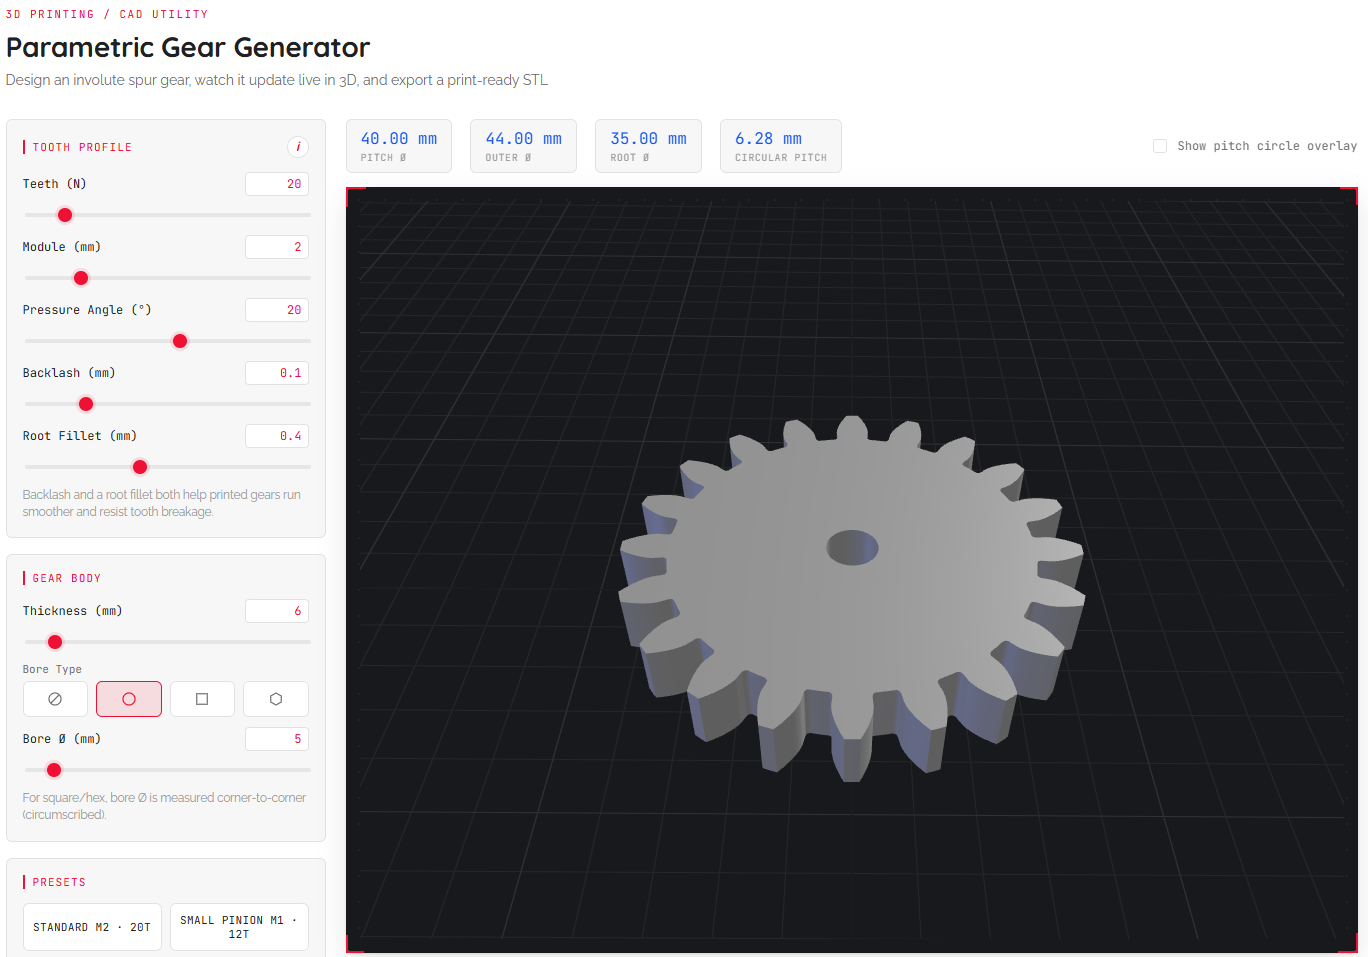
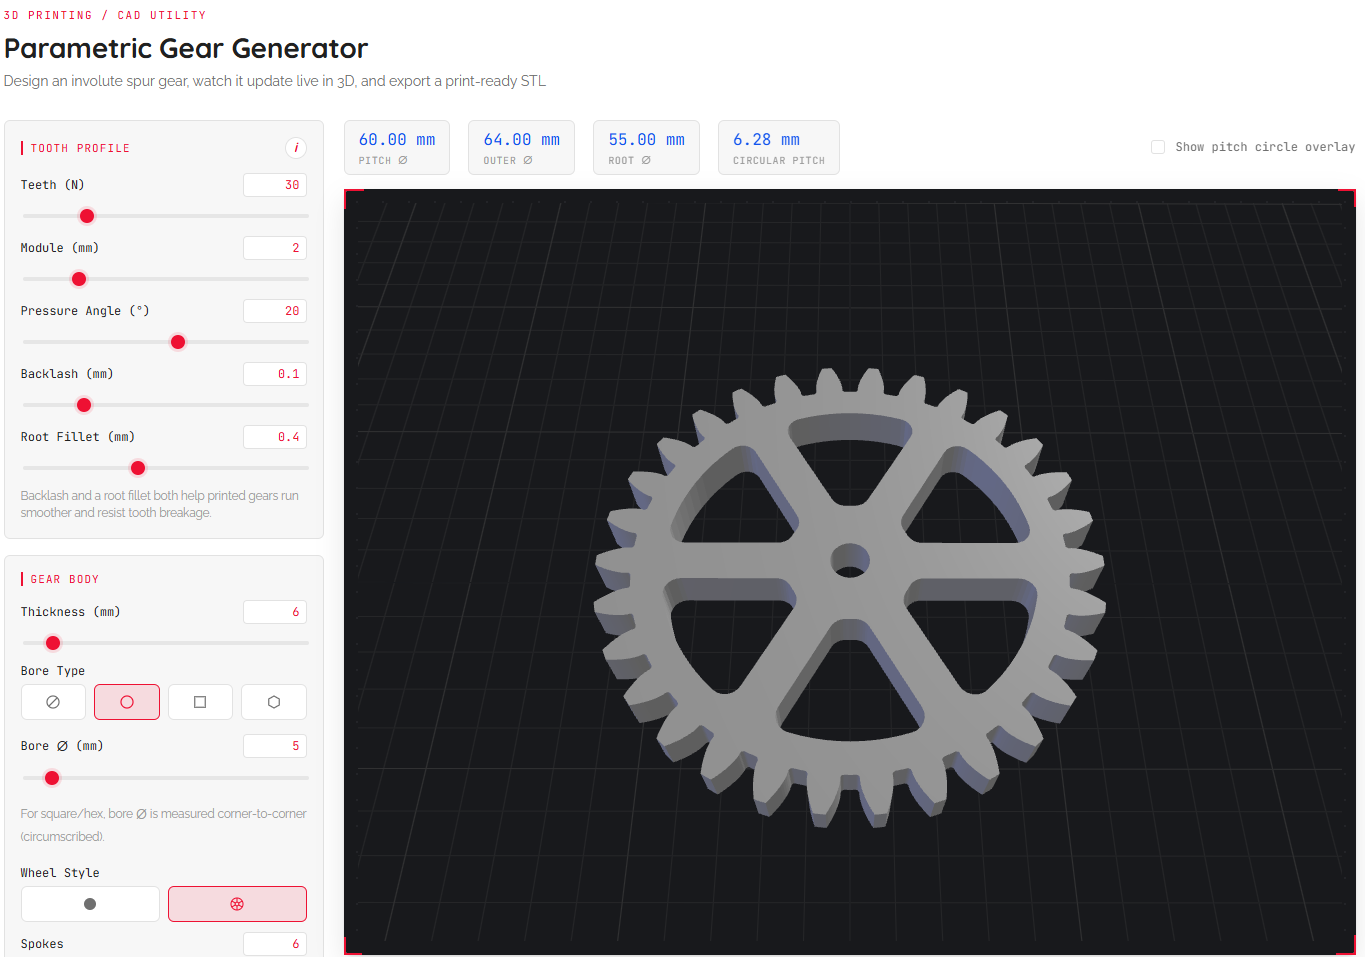
Add support for spoke-style wheels

diff --git a/js/geometry.js b/js/geometry.js
@@ -1,5 +1,5 @@
 import * as THREE from 'three';
-import { buildGearOutline } from './gear-math.js';
+import { buildGearOutline, computeGearStats, ccwTangent } from './gear-math.js';
 
 const TAU = Math.PI * 2;
 
@@ -9,6 +9,10 @@ export function buildGearGeometry(params) {
 
   if (params.boreType !== 'none' && params.boreDiameter > 0) {
     shape.holes.push(buildBorePath(params.boreType, params.boreDiameter / 2));
+  }
+
+  if (params.wheelStyle === 'spokes') {
+    buildSpokeHoles(params).forEach((hole) => shape.holes.push(hole));
   }
 
   const geometry = new THREE.ExtrudeGeometry(shape, {
@@ -41,6 +45,120 @@ function buildBorePath(shape, radius) {
     else path.lineTo(x, y);
   }
   return path;
+}
+
+// Cuts lightening holes between a solid hub (around the bore) and a solid rim
+// (just inside the tooth root) so material isn't wasted on a fully solid web.
+// Falls back to no cutouts (solid) if the gear is too small for the hub and
+// rim to leave meaningful room for spokes, rather than producing degenerate
+// geometry.
+function buildSpokeHoles(params) {
+  const stats = computeGearStats(params);
+  const rootRadius = stats.rootRadius;
+  const boreRadius = params.boreType !== 'none' ? params.boreDiameter / 2 : 0;
+
+  const hubRadius = Math.max(rootRadius * 0.3, boreRadius + 2.5);
+  const rimRadius = rootRadius - Math.max(2, rootRadius * 0.14);
+  if (rimRadius - hubRadius < 3) return [];
+
+  const spokeCount = Math.max(3, Math.round(params.spokeCount));
+  const angularPitch = TAU / spokeCount;
+
+  // Constant physical spoke width (not angular width) so spokes read as
+  // straight bars rather than wedges that fatten toward the rim. Capped by
+  // the tightest point (the hub, where circumference per spoke is smallest)
+  // so gaps never invert at high spoke counts.
+  const hubArcPerSpoke = hubRadius * angularPitch;
+  const spokeWidth = Math.max(0.6, Math.min(6, hubArcPerSpoke * 0.6));
+  const halfWidth = spokeWidth / 2;
+  const filletRadius = Math.min(halfWidth * 0.8, 2.5);
+
+  const arcSegments = 10;
+  const filletSegments = 6;
+  const holes = [];
+
+  function edgePoint(centerAngle, radius, signedOffset) {
+    const tangent = ccwTangent(centerAngle);
+    return {
+      x: radius * Math.cos(centerAngle) + tangent.x * signedOffset,
+      y: radius * Math.sin(centerAngle) + tangent.y * signedOffset,
+    };
+  }
+
+  for (let k = 0; k < spokeCount; k++) {
+    const centerA = k * angularPitch;
+    const centerB = centerA + angularPitch;
+
+    // Fillet the corner where spoke k's trailing edge meets the hub (outside
+    // tangency: the gap is outside the hub circle) and the rim (inside
+    // tangency: the gap is inside the rim circle) — and mirror for spoke
+    // k+1's leading edge.
+    const hubA = lineCircleFillet(centerA, halfWidth, hubRadius, filletRadius, false);
+    const rimA = lineCircleFillet(centerA, halfWidth, rimRadius, filletRadius, true);
+    const rimB = lineCircleFillet(centerB, -halfWidth, rimRadius, filletRadius, true);
+    const hubB = lineCircleFillet(centerB, -halfWidth, hubRadius, filletRadius, false);
+
+    const points = [];
+    points.push(...arcBetween(hubA.center, hubA.tCircle, hubA.tLine, filletRadius, filletSegments));
+    points.push(...arcBetween(rimA.center, rimA.tLine, rimA.tCircle, filletRadius, filletSegments));
+    points.push(...arcBetween({ x: 0, y: 0 }, rimA.tCircle, rimB.tCircle, rimRadius, arcSegments));
+    points.push(...arcBetween(rimB.center, rimB.tCircle, rimB.tLine, filletRadius, filletSegments));
+    points.push(...arcBetween(hubB.center, hubB.tLine, hubB.tCircle, filletRadius, filletSegments));
+    points.push(...arcBetween({ x: 0, y: 0 }, hubB.tCircle, hubA.tCircle, hubRadius, arcSegments));
+
+    const path = new THREE.Path();
+    points.forEach((p, i) => (i === 0 ? path.moveTo(p.x, p.y) : path.lineTo(p.x, p.y)));
+    path.closePath();
+    holes.push(path);
+  }
+  return holes;
+}
+
+// A fillet of radius `filletRadius` tangent to both a straight spoke edge
+// (a line parallel to the spoke's own radial centerline, offset from it by
+// `signedOffset`) and a circle of radius `circleRadius` centered at the
+// origin. `internal` selects which side of the circle the fillet sits on:
+// true = inside it (the rim, where the gap is the inner region), false =
+// outside it (the hub, where the gap is the outer region). Unlike a
+// line-line fillet, this accounts for the circle's actual curvature instead
+// of approximating it as a tangent line.
+function lineCircleFillet(centerAngle, signedOffset, circleRadius, filletRadius, internal) {
+  const gapSign = Math.sign(signedOffset) || 1;
+  const centerDist = internal ? circleRadius - filletRadius : circleRadius + filletRadius;
+  const v = signedOffset + gapSign * filletRadius;
+  const u = Math.sqrt(Math.max(0, centerDist * centerDist - v * v));
+
+  const uAxis = { x: Math.cos(centerAngle), y: Math.sin(centerAngle) };
+  const vAxis = ccwTangent(centerAngle);
+  const center = { x: u * uAxis.x + v * vAxis.x, y: u * uAxis.y + v * vAxis.y };
+  const tLine = { x: u * uAxis.x + signedOffset * vAxis.x, y: u * uAxis.y + signedOffset * vAxis.y };
+  const scale = circleRadius / centerDist;
+  const tCircle = { x: center.x * scale, y: center.y * scale };
+  return { center, tLine, tCircle };
+}
+
+// Arc from `from` to `to` (both assumed to lie on a circle of `radius`
+// around `center`), always sweeping the short way.
+function arcBetween(center, from, to, radius, segments) {
+  const a0 = Math.atan2(from.y - center.y, from.x - center.x);
+  const a1 = Math.atan2(to.y - center.y, to.x - center.x);
+  const delta = shortAngleDelta(a0, a1);
+  const pts = [from];
+  for (let i = 1; i < segments; i++) {
+    const a = a0 + (delta * i) / segments;
+    pts.push({ x: center.x + radius * Math.cos(a), y: center.y + radius * Math.sin(a) });
+  }
+  pts.push(to);
+  return pts;
+}
+
+// atan2 wraps to (-pi, pi], so a raw `to - from` can be off by a full turn
+// whenever the arc straddles the +-180 degree seam. Always take the short way.
+function shortAngleDelta(from, to) {
+  let delta = to - from;
+  while (delta <= -Math.PI) delta += TAU;
+  while (delta > Math.PI) delta -= TAU;
+  return delta;
 }
 
 export function buildPitchCircleGeometry(stats, params) {

diff --git a/index.html b/index.html
@@ -107,12 +107,32 @@
       </div>
       <div class="slider-field">
         <div class="slider-head">
-          <label for="boreRange">Bore &Oslash; (mm)</label>
+          <label for="boreRange">Bore <span class="dia">&#8960;</span> (mm)</label>
           <input type="number" class="field-number" data-field="boreDiameter" min="0" max="60" step="0.5" value="5" />
         </div>
         <input id="boreRange" type="range" data-field="boreDiameter" min="0" max="60" step="0.5" value="5" />
       </div>
-      <p class="hint">For square/hex, bore &Oslash; is measured corner-to-corner (circumscribed).</p>
+      <p class="hint">For square/hex, bore <span class="dia">&#8960;</span> is measured corner-to-corner (circumscribed).</p>
+      <br/>
+
+      <div class="field">
+        <label id="wheelStyleLabel">Wheel Style</label>
+        <div class="shape-picker" id="wheelStylePicker" role="group" aria-labelledby="wheelStyleLabel">
+          <button type="button" class="shape-btn" data-wheel="solid" aria-label="Solid" title="Solid">
+            <svg viewBox="0 0 24 24" width="18" height="18" fill="none" stroke="currentColor" stroke-width="1.6"><circle cx="12" cy="12" r="8" fill="currentColor" stroke="none" /></svg>
+          </button>
+          <button type="button" class="shape-btn" data-wheel="spokes" aria-label="Spokes" title="Spokes">
+            <svg viewBox="0 0 24 24" width="18" height="18" fill="none" stroke="currentColor" stroke-width="1.4"><circle cx="12" cy="12" r="8" /><circle cx="12" cy="12" r="2.4" /><line x1="12" y1="4" x2="12" y2="9.4" /><line x1="18.9" y1="8" x2="14.3" y2="10.7" /><line x1="18.9" y1="16" x2="14.3" y2="13.3" /><line x1="12" y1="20" x2="12" y2="14.6" /><line x1="5.1" y1="16" x2="9.7" y2="13.3" /><line x1="5.1" y1="8" x2="9.7" y2="10.7" /></svg>
+          </button>
+        </div>
+      </div>
+      <div class="slider-field">
+        <div class="slider-head">
+          <label for="spokeRange">Spokes</label>
+          <input type="number" class="field-number" data-field="spokeCount" min="3" max="12" step="1" value="6" />
+        </div>
+        <input id="spokeRange" type="range" data-field="spokeCount" min="3" max="12" step="1" value="6" />
+      </div>
     </div>
 
     <div class="panel">
@@ -131,19 +151,19 @@
     <div class="hud-bar">
       <div class="hud-stat">
         <div class="hud-val" id="hudPitch">48.00 mm</div>
-        <div class="hud-label">Pitch &Oslash;</div>
+        <div class="hud-label">Pitch <span class="dia">&#8960;</span></div>
       </div>
       <div class="hud-stat">
         <div class="hud-val" id="hudOuter">52.00 mm</div>
-        <div class="hud-label">Outer &Oslash;</div>
+        <div class="hud-label">Outer <span class="dia">&#8960;</span></div>
       </div>
       <div class="hud-stat">
         <div class="hud-val" id="hudRoot">43.00 mm</div>
-        <div class="hud-label">Root &Oslash;</div>
+        <div class="hud-label">Root <span class="dia">&#8960;</span></div>
       </div>
       <div class="hud-stat">
         <div class="hud-val" id="hudCircPitch">6.28 mm</div>
-        <div class="hud-label">Circular Pitch</div>
+        <div class="hud-label hud-label-nudge">Circular Pitch</div>
       </div>
       <label class="toggle-row hud-toggle">
         <input id="pitchCircleToggle" type="checkbox" />
@@ -189,23 +209,23 @@
     <line x1="256" y1="26" x2="220" y2="32" stroke="#ee1133" stroke-width="1" />
 
     <line x1="430" y1="87" x2="460" y2="87" stroke="#1153ee" stroke-width="1.2" stroke-dasharray="6 4" />
-    <text x="466" y="90" class="dim-label" fill="#707070">Pitch &Oslash;</text>
+    <text x="466" y="90" class="dim-label" fill="#707070">Pitch <tspan class="dia">&#8960;</tspan></text>
     <line x1="430" y1="111" x2="460" y2="111" stroke="#c7c9cc" stroke-width="1" stroke-dasharray="1 3" />
-    <text x="466" y="114" class="dim-label" fill="#707070">Base &Oslash;</text>
+    <text x="466" y="114" class="dim-label" fill="#707070">Base <tspan class="dia">&#8960;</tspan></text>
     <line x1="430" y1="135" x2="460" y2="135" stroke="#c7c9cc" stroke-width="1" stroke-dasharray="4 3" />
-    <text x="466" y="138" class="dim-label" fill="#707070">Root &Oslash;</text>
+    <text x="466" y="138" class="dim-label" fill="#707070">Root <tspan class="dia">&#8960;</tspan></text>
     <line x1="430" y1="159" x2="460" y2="159" stroke="#c7c9cc" stroke-width="1" stroke-dasharray="2 4" />
-    <text x="466" y="162" class="dim-label" fill="#707070">Outer &Oslash;</text>
+    <text x="466" y="162" class="dim-label" fill="#707070">Outer <tspan class="dia">&#8960;</tspan></text>
 
-    <text x="430" y="230" class="dim-label" fill="#111" font-size="15">m = d &divide; N</text>
-    <text x="430" y="250" class="dim-label" fill="#707070">Module = Pitch &Oslash; &divide; Teeth</text>
+    <text x="430" y="230" class="dim-label" fill="#111" font-size="15">m = d / N</text>
+    <text x="430" y="250" class="dim-label" fill="#707070">Module = Pitch <tspan class="dia">&#8960;</tspan> / Teeth</text>
   </svg>
 
   <dl class="term-list">
     <div><dt>Module (m)</dt><dd>Tooth size in mm. Module (m) = Pitch Diameter (d) / Number of Teeth (N). Two gears must share the same module to mesh.</dd></div>
     <div><dt>Pitch circle</dt><dd>The imaginary rolling circle the tooth size is defined against &mdash; not a physical edge on the gear.</dd></div>
     <div><dt>Pressure angle (&alpha;)</dt><dd>The angle of the tooth flank at the pitch circle. 20&deg; is standard; it sets how "pointed" vs "stubby" the teeth are.</dd></div>
-    <div><dt>Backlash</dt><dd>A small amount shaved off each tooth's thickness so two mating gears turn freely instead of binding.</dd></div>
+    <div><dt>Center distance</dt><dd>Two meshing gears' shaft centers should be spaced (Pitch <span class="dia">&#8960;</span>&#8321; + Pitch <span class="dia">&#8960;</span>&#8322;) / 2 apart. Little to no additional slop should be needed for appropriate depthing. Your gear's Pitch <span class="dia">&#8960;</span> is shown above the viewport.</dd></div>
   </dl>
 </dialog>
 

diff --git a/js/main.js b/js/main.js
@@ -12,12 +12,15 @@ const DEFAULTS = {
   boreType: 'circle',
   backlash: 0.1,
   filletRadius: 0.3,
+  wheelStyle: 'spokes',
+  spokeCount: 6,
   clearance: 0.25,
   addendumFactor: 1,
 };
 
-const FIELD_IDS = ['teeth', 'module', 'pressureAngle', 'thickness', 'boreDiameter', 'backlash', 'filletRadius'];
+const FIELD_IDS = ['teeth', 'module', 'pressureAngle', 'thickness', 'boreDiameter', 'backlash', 'filletRadius', 'spokeCount'];
 const BORE_TYPES = ['none', 'circle', 'square', 'hex'];
+const WHEEL_STYLES = ['solid', 'spokes'];
 
 const params = { ...DEFAULTS, ...readParamsFromURL() };
 let showPitchCircle = false;
@@ -42,6 +45,9 @@ function readParamsFromURL() {
   if (url.has('boreType') && BORE_TYPES.includes(url.get('boreType'))) {
     out.boreType = url.get('boreType');
   }
+  if (url.has('wheelStyle') && WHEEL_STYLES.includes(url.get('wheelStyle'))) {
+    out.wheelStyle = url.get('wheelStyle');
+  }
   return out;
 }
 
@@ -49,10 +55,12 @@ function syncURL() {
   const url = new URLSearchParams();
   for (const id of FIELD_IDS) url.set(id, params[id]);
   url.set('boreType', params.boreType);
+  url.set('wheelStyle', params.wheelStyle);
   history.replaceState(null, '', `?${url.toString()}`);
 }
 
-const shapeButtons = document.querySelectorAll('.shape-btn');
+const boreButtons = document.querySelectorAll('#boreTypePicker .shape-btn');
+const wheelButtons = document.querySelectorAll('#wheelStylePicker .shape-btn');
 
 function syncInputs() {
   for (const id of FIELD_IDS) {
@@ -60,16 +68,26 @@ function syncInputs() {
       el.value = params[id];
     });
   }
-  shapeButtons.forEach((btn) => {
+  boreButtons.forEach((btn) => {
     btn.classList.toggle('active', btn.dataset.shape === params.boreType);
+  });
+  wheelButtons.forEach((btn) => {
+    btn.classList.toggle('active', btn.dataset.wheel === params.wheelStyle);
   });
   document.getElementById('pitchCircleToggle').checked = showPitchCircle;
   updateBoreControlsState();
+  updateSpokeControlsState();
 }
 
 function updateBoreControlsState() {
   inputs.boreDiameter.forEach((el) => {
     el.disabled = params.boreType === 'none';
+  });
+}
+
+function updateSpokeControlsState() {
+  inputs.spokeCount.forEach((el) => {
+    el.disabled = params.wheelStyle !== 'spokes';
   });
 }
 
@@ -86,11 +104,12 @@ function updateHUD(stats) {
 
 function updateCaption(stats) {
   const caption = document.getElementById('viewportCaption');
+  const web = params.wheelStyle === 'spokes' ? `, ${params.spokeCount}-spoke web` : '';
   caption.innerHTML =
     `<b>${params.teeth}-tooth</b> spur gear at module <b>${params.module} mm</b> ` +
     `(${(25.4 / params.module).toFixed(2)} DP), ${params.pressureAngle}&deg; pressure angle. ` +
-    `Outer diameter <b>${stats.outerDiameter.toFixed(1)} mm</b>, ` +
-    `bore <b>${params.boreDiameter} mm</b>, thickness <b>${params.thickness} mm</b>.`;
+    `Pitch diameter <b>${stats.pitchDiameter.toFixed(1)} mm</b>, ` +
+    `bore <b>${params.boreDiameter} mm</b>, thickness <b>${params.thickness} mm</b>${web}.`;
 }
 
 function regenerate() {
@@ -123,11 +142,20 @@ document.getElementById('pitchCircleToggle').addEventListener('change', (e) => {
   regenerate();
 });
 
-shapeButtons.forEach((btn) => {
+boreButtons.forEach((btn) => {
   btn.addEventListener('click', () => {
     params.boreType = btn.dataset.shape;
-    shapeButtons.forEach((other) => other.classList.toggle('active', other === btn));
+    boreButtons.forEach((other) => other.classList.toggle('active', other === btn));
     updateBoreControlsState();
+    regenerate();
+  });
+});
+
+wheelButtons.forEach((btn) => {
+  btn.addEventListener('click', () => {
+    params.wheelStyle = btn.dataset.wheel;
+    wheelButtons.forEach((other) => other.classList.toggle('active', other === btn));
+    updateSpokeControlsState();
     regenerate();
   });
 });

diff --git a/style.css b/style.css
@@ -123,8 +123,8 @@ margin-bottom:10px;
 .field{display:flex; flex-direction:column; gap:5px; margin-bottom:10px;}
 .field:last-child{margin-bottom:0;}
 .field label{
-font-size:11px;
-color:var(--text-muted);
+font-size:12px;
+color:var(--text-primary);
 font-family:var(--mono);
 }
 .shape-picker{
@@ -335,6 +335,13 @@ color:var(--text-faint);
 letter-spacing:.06em;
 text-transform:uppercase;
 margin-top:2px;
+height:14px;
+line-height:14px;
+overflow:hidden;
+}
+.hud-label-nudge{
+position:relative;
+top:2px;
 }
 .reticle-wrap{
 position:relative;
@@ -430,6 +437,11 @@ display:block;
 .dim-label{
 font-family:var(--mono);
 font-size:10.5px;
+}
+.dia{
+font-size:1.8em;
+vertical-align:-0.08em;
+baseline-shift:-10%;
 }
 .term-list{
 margin:16px 0 0;

diff --git a/js/gear-math.js b/js/gear-math.js
@@ -10,7 +10,7 @@ function polar(r, a) {
   return { x: r * Math.cos(a), y: r * Math.sin(a) };
 }
 
-function ccwTangent(angle) {
+export function ccwTangent(angle) {
   return { x: -Math.sin(angle), y: Math.cos(angle) };
 }
 
@@ -18,7 +18,7 @@ function ccwTangent(angle) {
 // from `corner` along the incoming/outgoing edges) meet, with the given
 // fillet radius. Returns the arc points (tangent-to-tangent), replacing
 // the sharp corner.
-function filletArc(corner, dirIn, dirOut, radius, segments) {
+export function filletArc(corner, dirIn, dirOut, radius, segments) {
   const dot = Math.max(-1, Math.min(1, dirIn.x * dirOut.x + dirIn.y * dirOut.y));
   const theta = Math.acos(dot);
   if (theta < 1e-3 || theta > Math.PI - 1e-3 || radius <= 0) {
